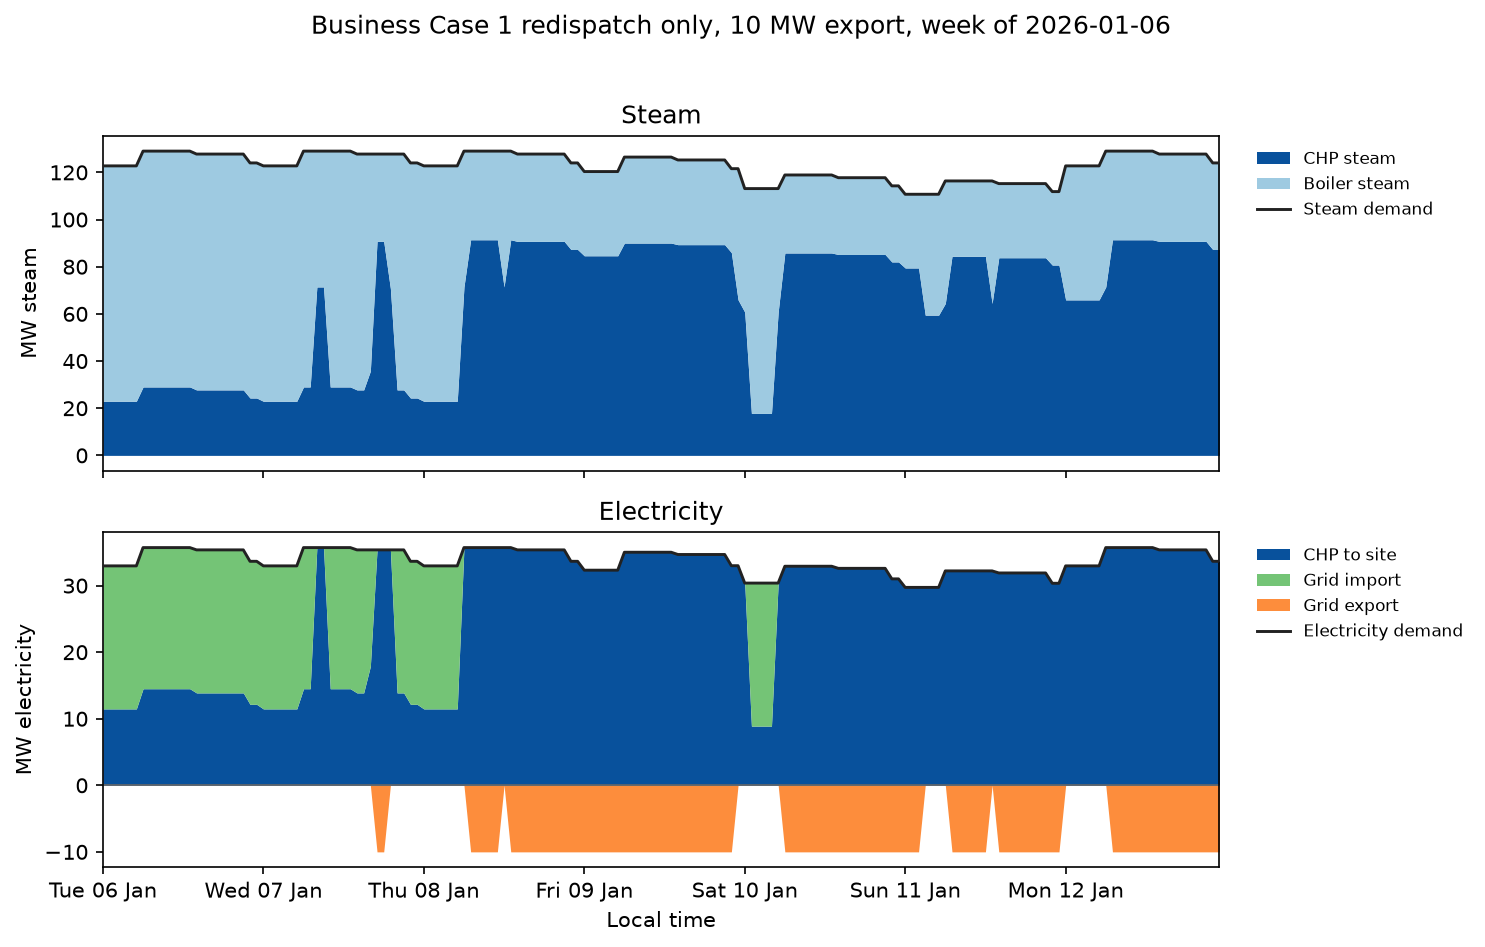
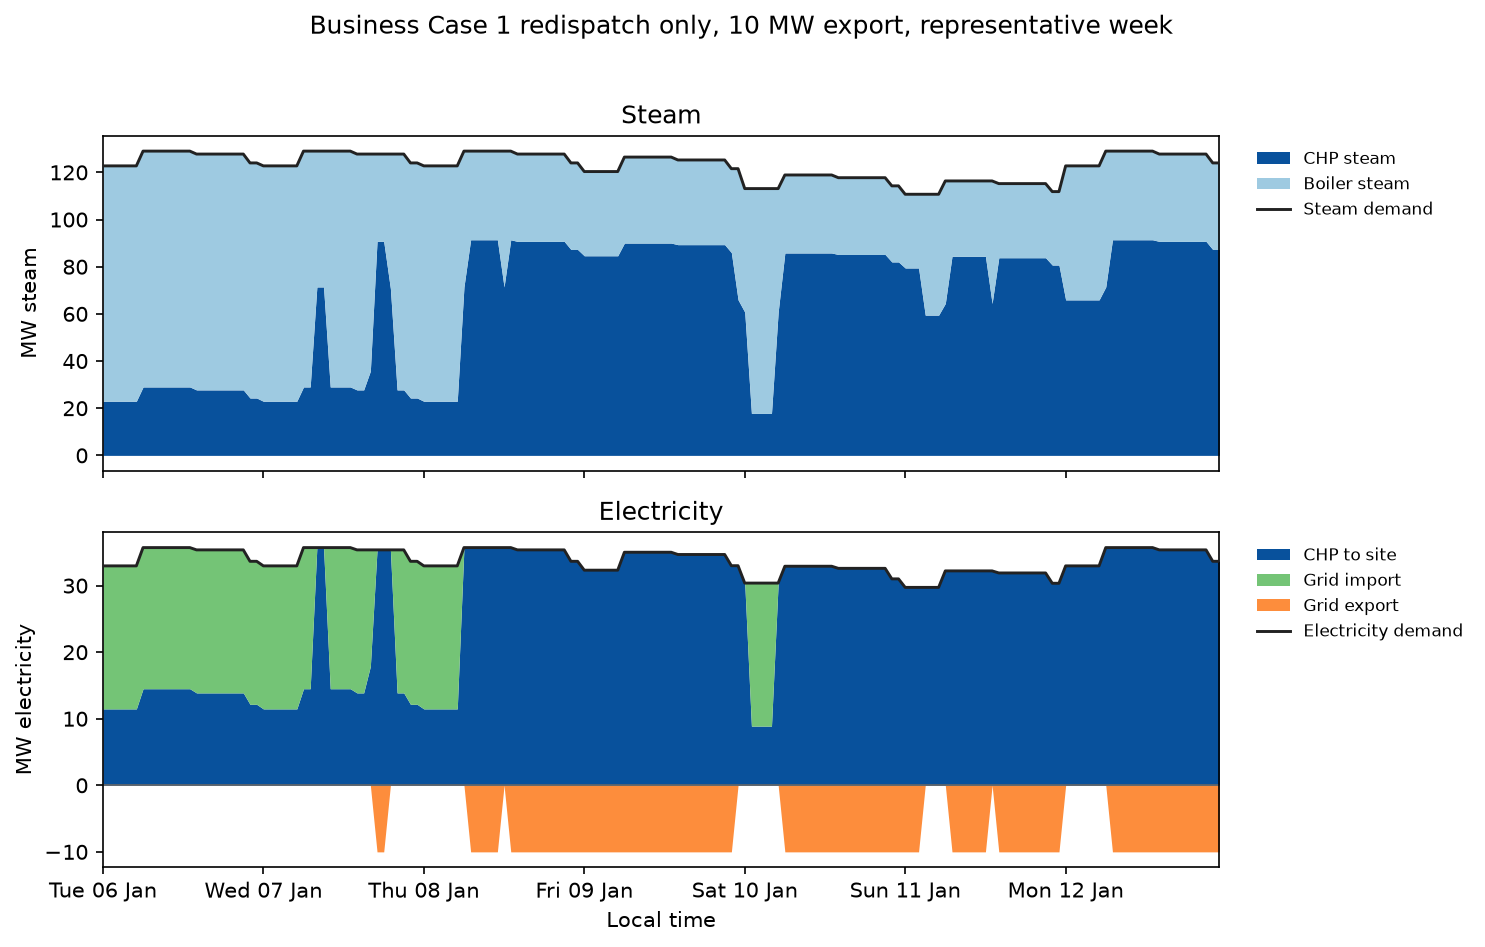
Clarify BC1 representative week labels

Changed region(s): [[0.2168, 0.0, 0.8054, 0.0612]]

diff --git a/henkel-holthausen-energy-case/scripts/plot_bc1_supply_stacks.py b/henkel-holthausen-energy-case/scripts/plot_bc1_supply_stacks.py
@@ -80,18 +80,17 @@ def main() -> None:
         raise SystemExit("Redispatch week does not match the frozen primary value")
 
     FIGURES.mkdir(parents=True, exist_ok=True)
-    week = f"week of {DEFAULT_WEEK_START}"
     plot_supply_stack_week(
         baseline,
         DEFAULT_WEEK_START,
         FIGURES / "final_bc1_baseline_week_stack.png",
-        f"Business Case 1 baseline, {week}",
+        "Business Case 1 baseline, representative week",
     )
     plot_supply_stack_week(
         redispatch.frame,
         DEFAULT_WEEK_START,
         FIGURES / "final_bc1_redispatch_week_stack.png",
-        f"Business Case 1 redispatch only, 10 MW export, {week}",
+        "Business Case 1 redispatch only, 10 MW export, representative week",
     )
     print(f"Redispatch week matches frozen value {value / 1e6:.6f} M EUR/a")
     print("Supply-stack figures written")

diff --git a/henkel-holthausen-energy-case/CASE_STUDY.md b/henkel-holthausen-energy-case/CASE_STUDY.md
@@ -184,6 +184,8 @@ In the optimized redispatch case, the annual CHP production is kept fixed, but i
 
 <img src="outputs/figures/final_bc1_redispatch_week_stack.png" width="100%">
 
+The figures use the synthetic 2026 demand calendar. The dispatch economics use observed 2025 DE/LU Day-Ahead prices mapped onto the model hours.
+
 The export-capacity sensitivity is:
 
 | Export capacity | Annual value | Value |
